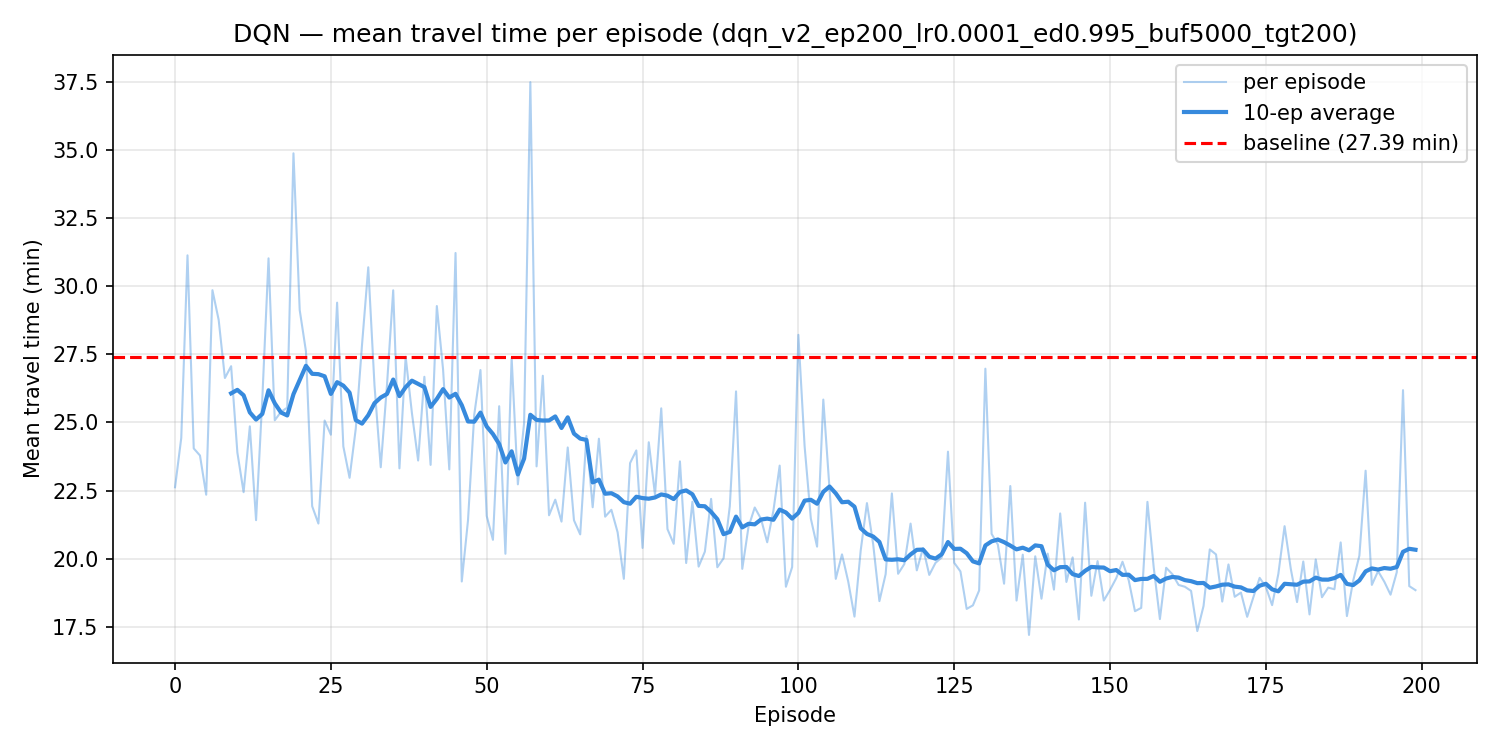
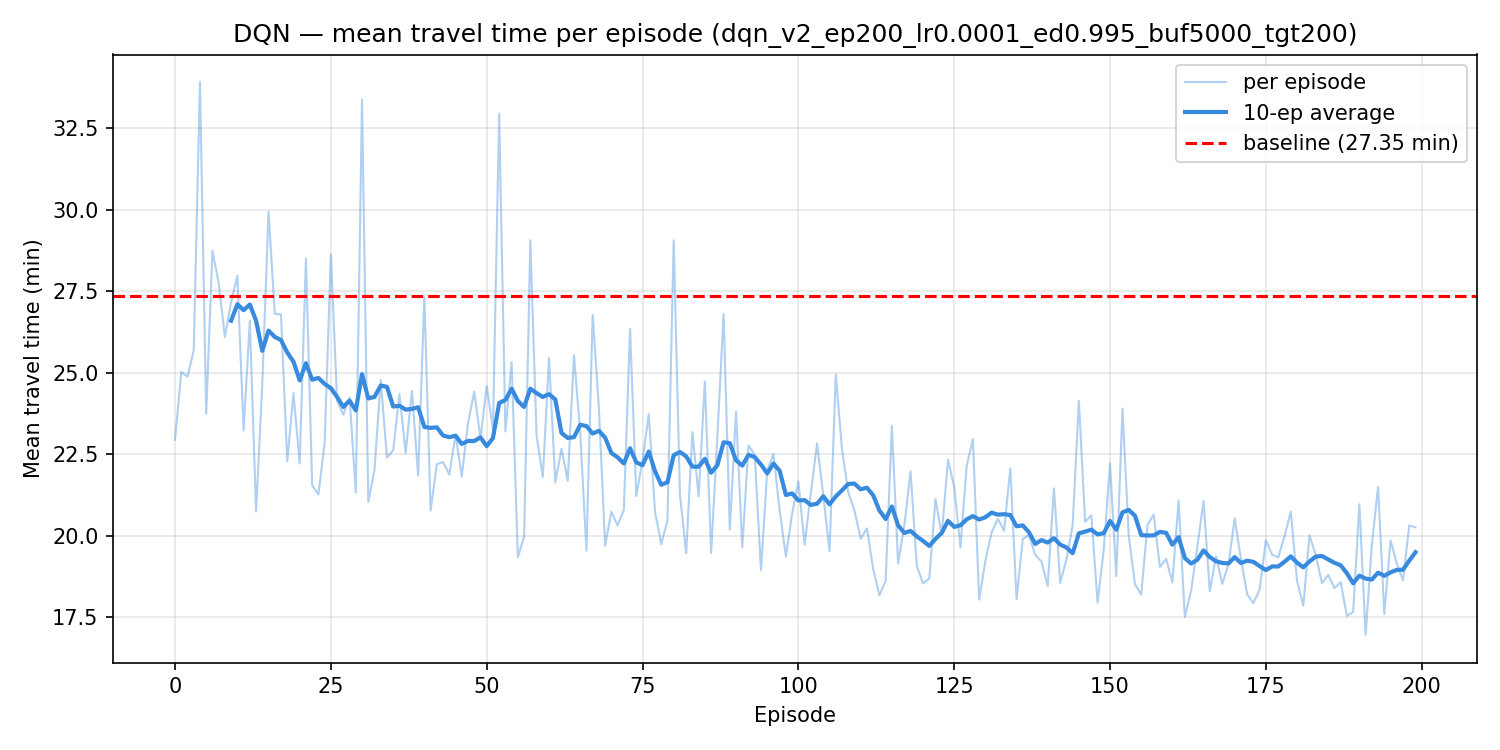
trained dqn for 100 - 400 eps

diff --git a/evaluation/evaluate_agents.py b/evaluation/evaluate_agents.py
@@ -35,7 +35,7 @@ from agents.dqn_agent import DQNAgent
 DQN_VERSION        = 2     # v1: budget=5000, add_cost=w*2, no remove refund
                            # v2: budget=1000, add_cost=w*5, remove refund=tt*2.5,
                            #     freq actions modify travel_time (±0.5min), speed_up cost=1.5, slow_down refund=0.75
-DQN_EPISODES       = 200
+DQN_EPISODES       = 400
 DQN_LR             = 0.0001
 DQN_EPSILON_DECAY  = 0.995
 DQN_BUFFER         = 5000

diff --git a/training/train_dqn.py b/training/train_dqn.py
@@ -25,7 +25,7 @@ from agents.dqn_agent import DQNAgent
 VERSION        = 2     # v1: budget=5000, add_cost=w*2, no remove refund
                        # v2: budget=1000, add_cost=w*5, remove refund=tt*2.5,
                        #     freq actions modify travel_time (±0.5min), speed_up cost=1.5, slow_down refund=0.75
-NUM_EPISODES   = 200
+NUM_EPISODES   = 400
 EPSILON_DECAY  = 0.995
 
 # DONT CHANGE
